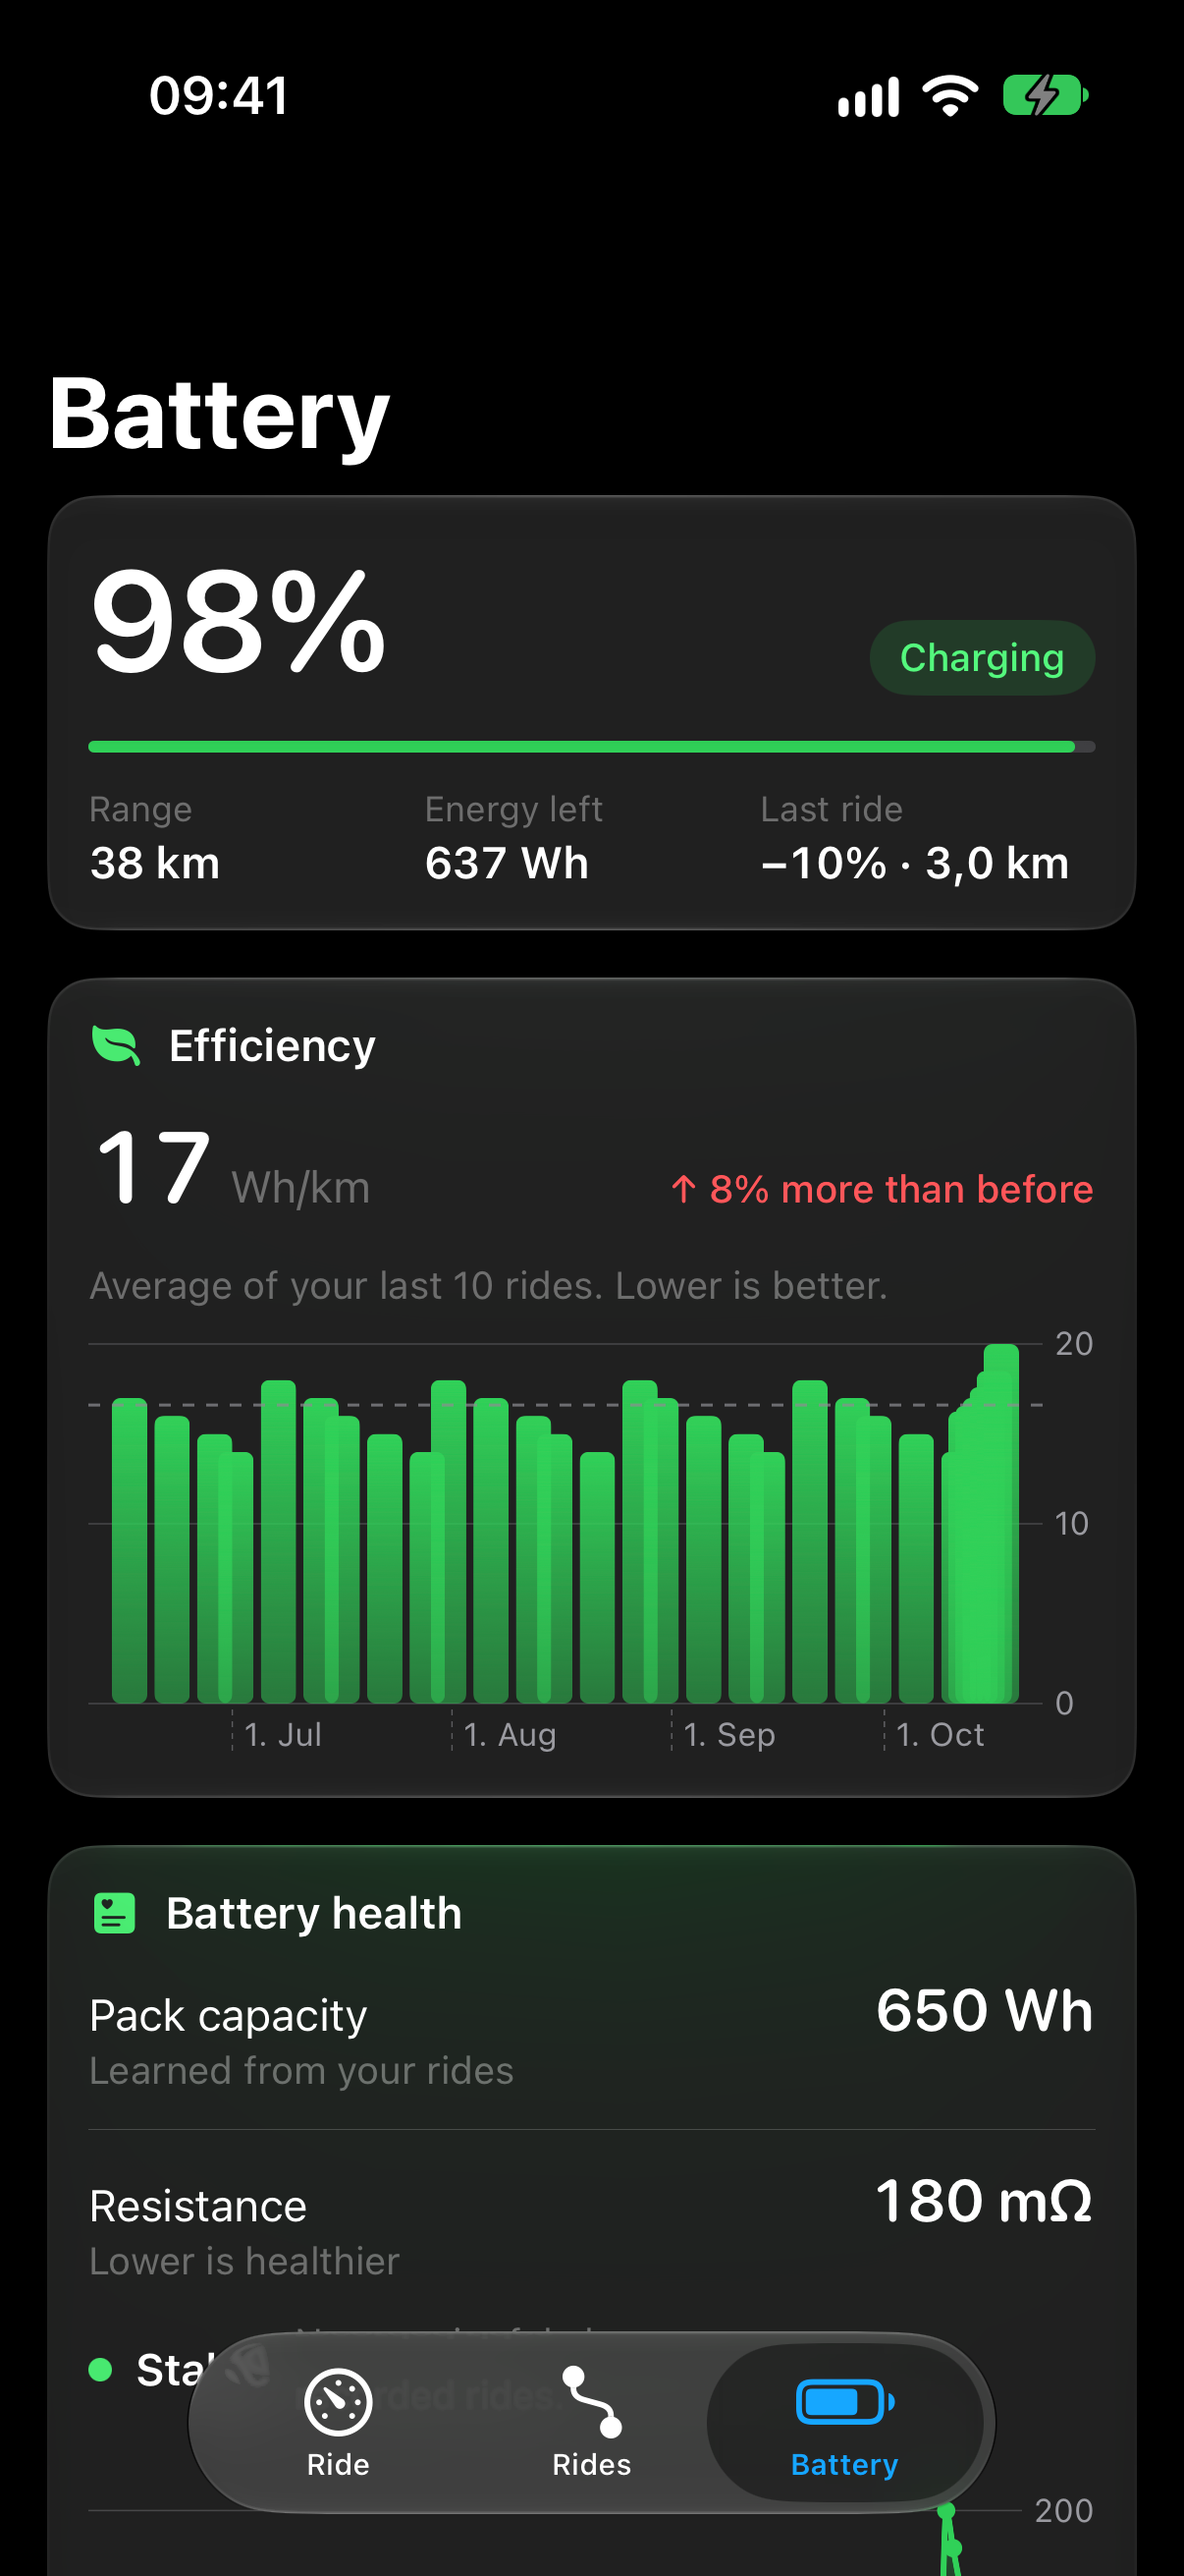
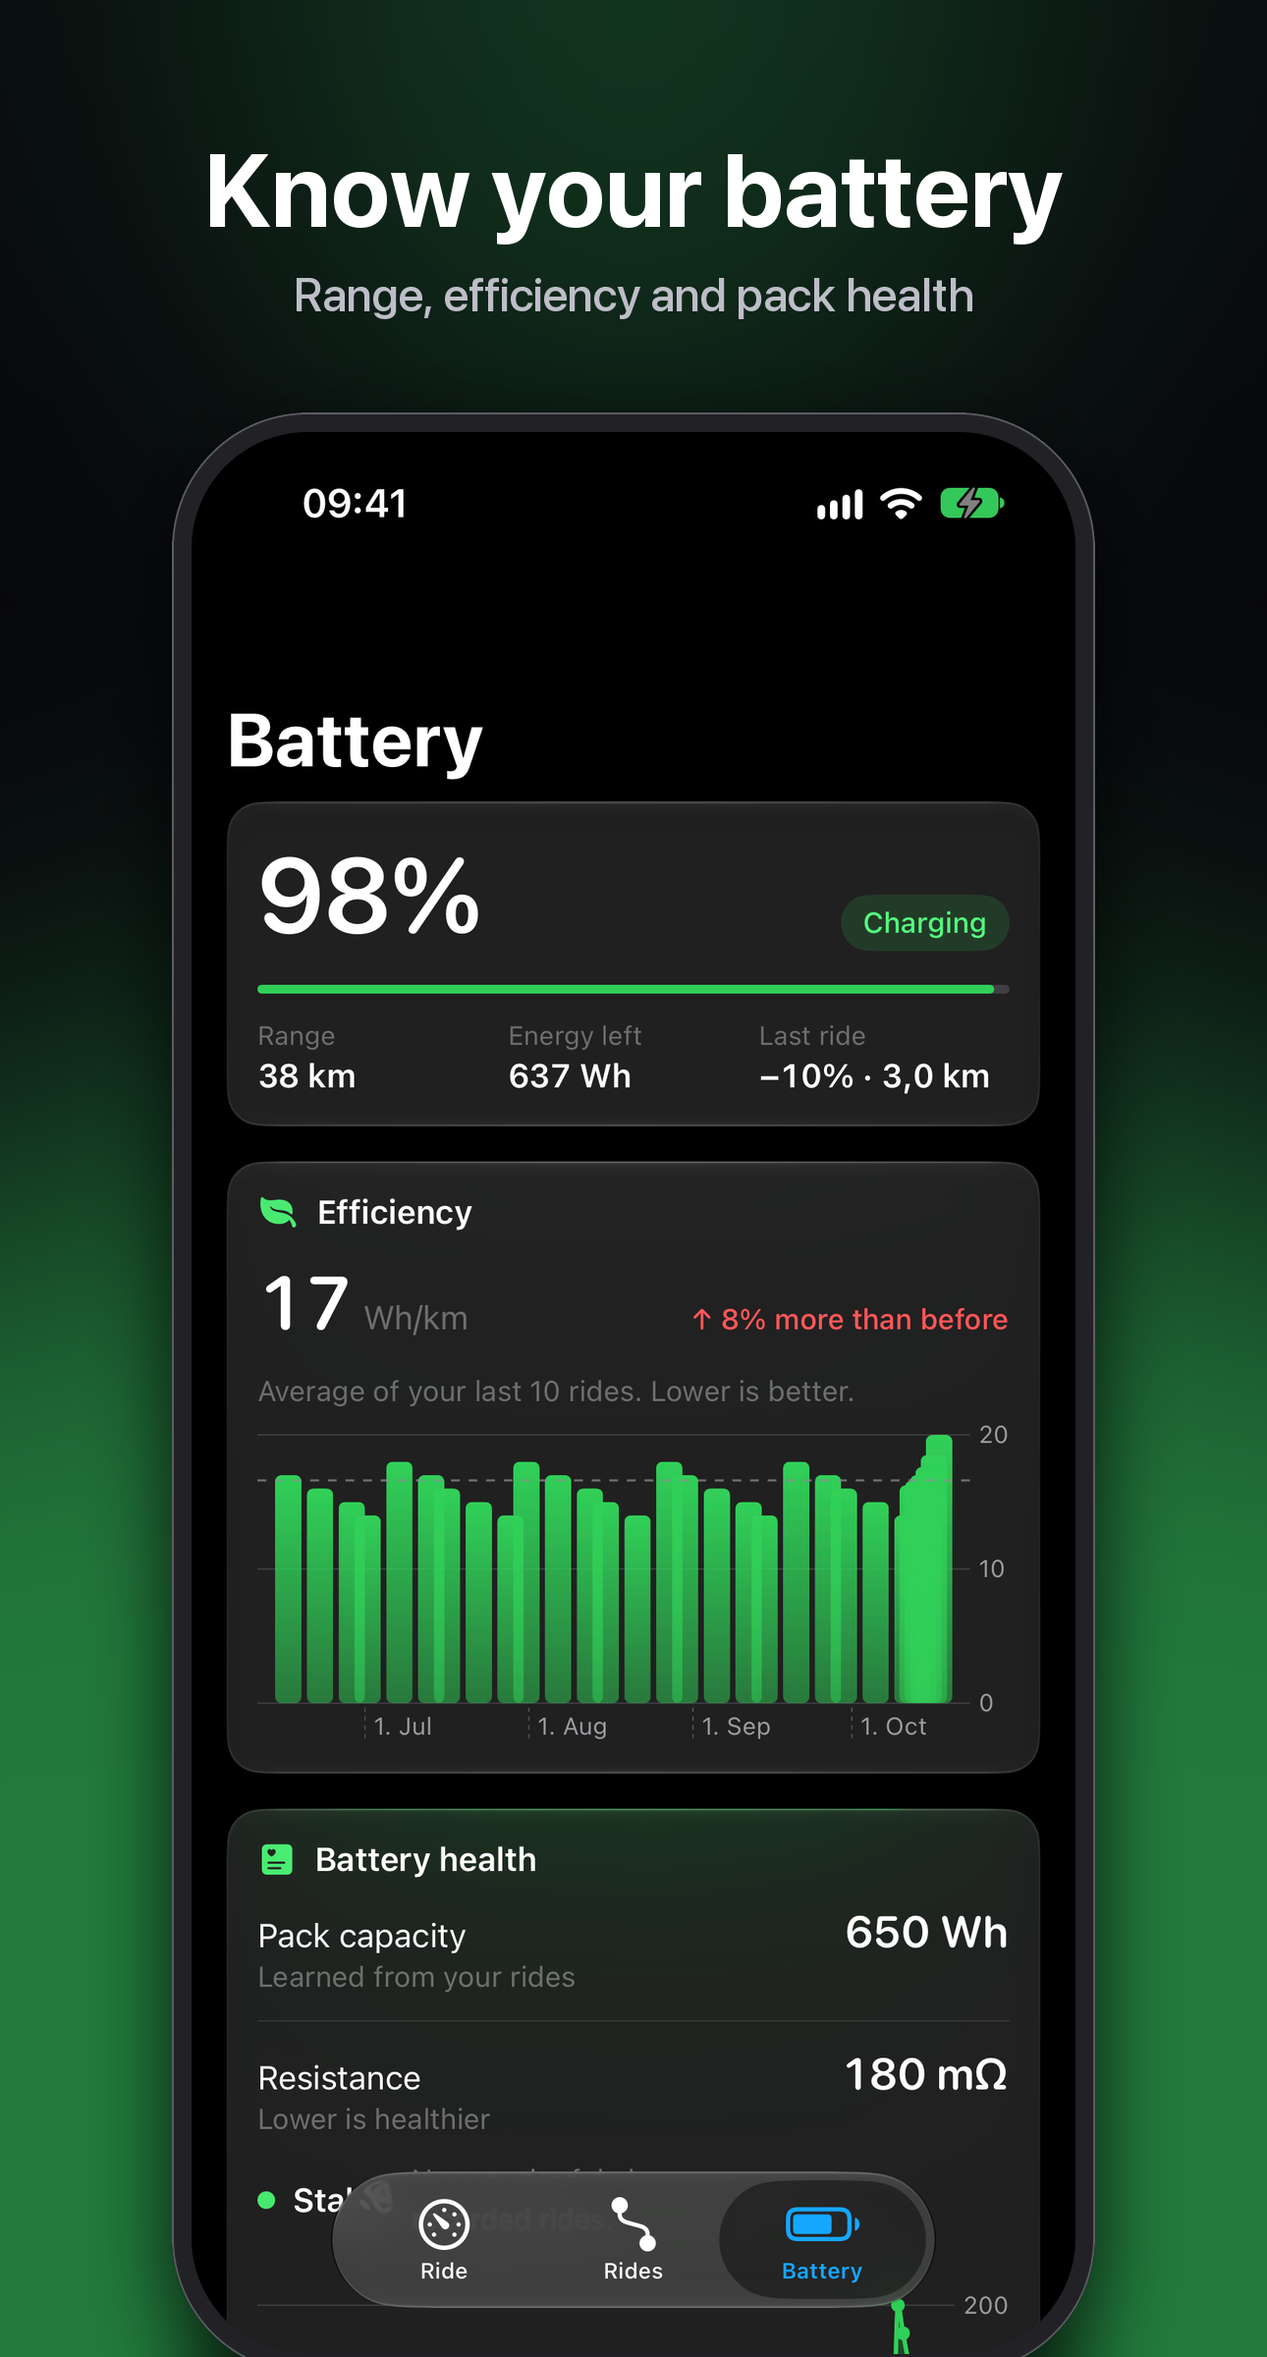
docs: refresh mockups for README and AltStore

diff --git a/README.md b/README.md
@@ -17,9 +17,16 @@
 <p align="center">
   <img src="docs/screenshots/dashboard.png" width="260" alt="Live dashboard with speedometer, gear, light, cruise and lock">
   &nbsp;
-  <img src="docs/screenshots/rides.png" width="260" alt="Ride statistics and history">
+  <img src="docs/screenshots/rides.png" width="260" alt="Ride history with daily totals and statistics">
+  &nbsp;
+  <img src="docs/screenshots/map.png" width="260" alt="Ride route on a map, colored by speed">
+</p>
+<p align="center">
+  <img src="docs/screenshots/charts.png" width="260" alt="Ride charts with a draggable line and measured regenerative braking">
   &nbsp;
   <img src="docs/screenshots/battery.png" width="260" alt="Battery, efficiency and pack health">
+  &nbsp;
+  <img src="docs/screenshots/connection.png" width="260" alt="Connection and ride detection settings">
 </p>
 
 Live speed and battery at a glance, rides that log themselves, widgets, a Live Activity and Control Center toggles, all over a Bluetooth link that reconnects on its own. Quick to open, quiet in the background, and fully usable with larger text and VoiceOver.
